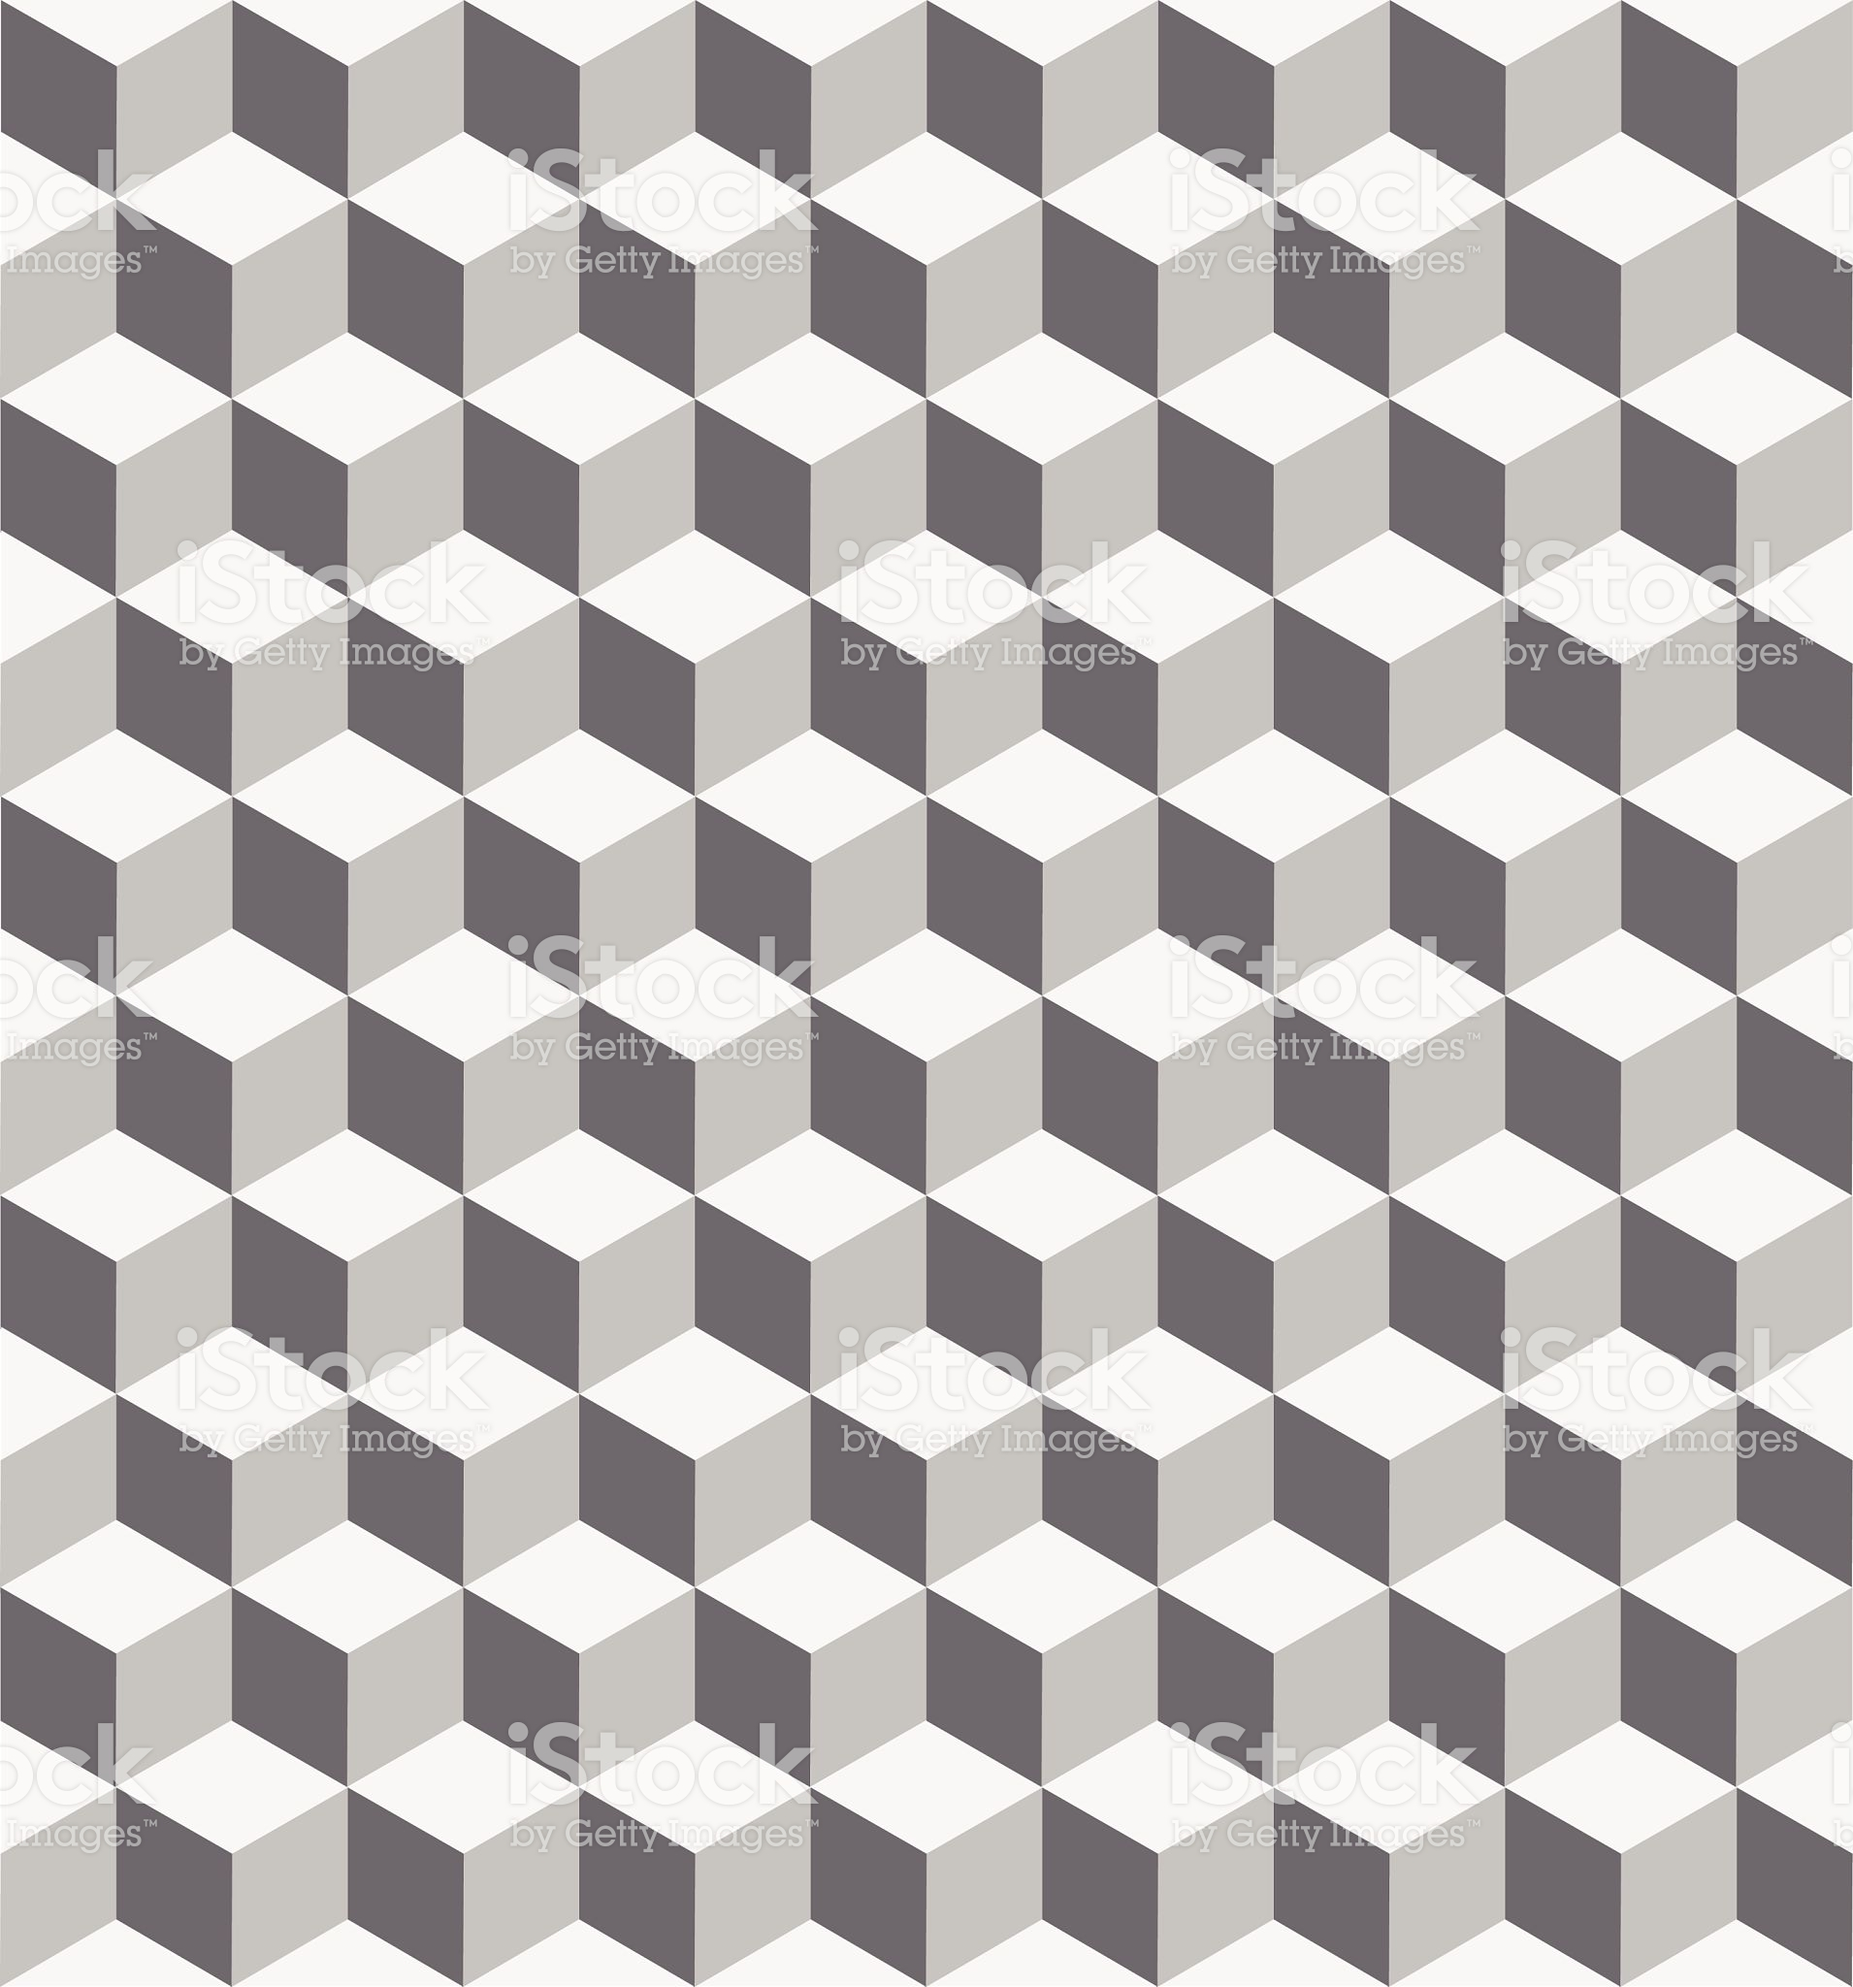
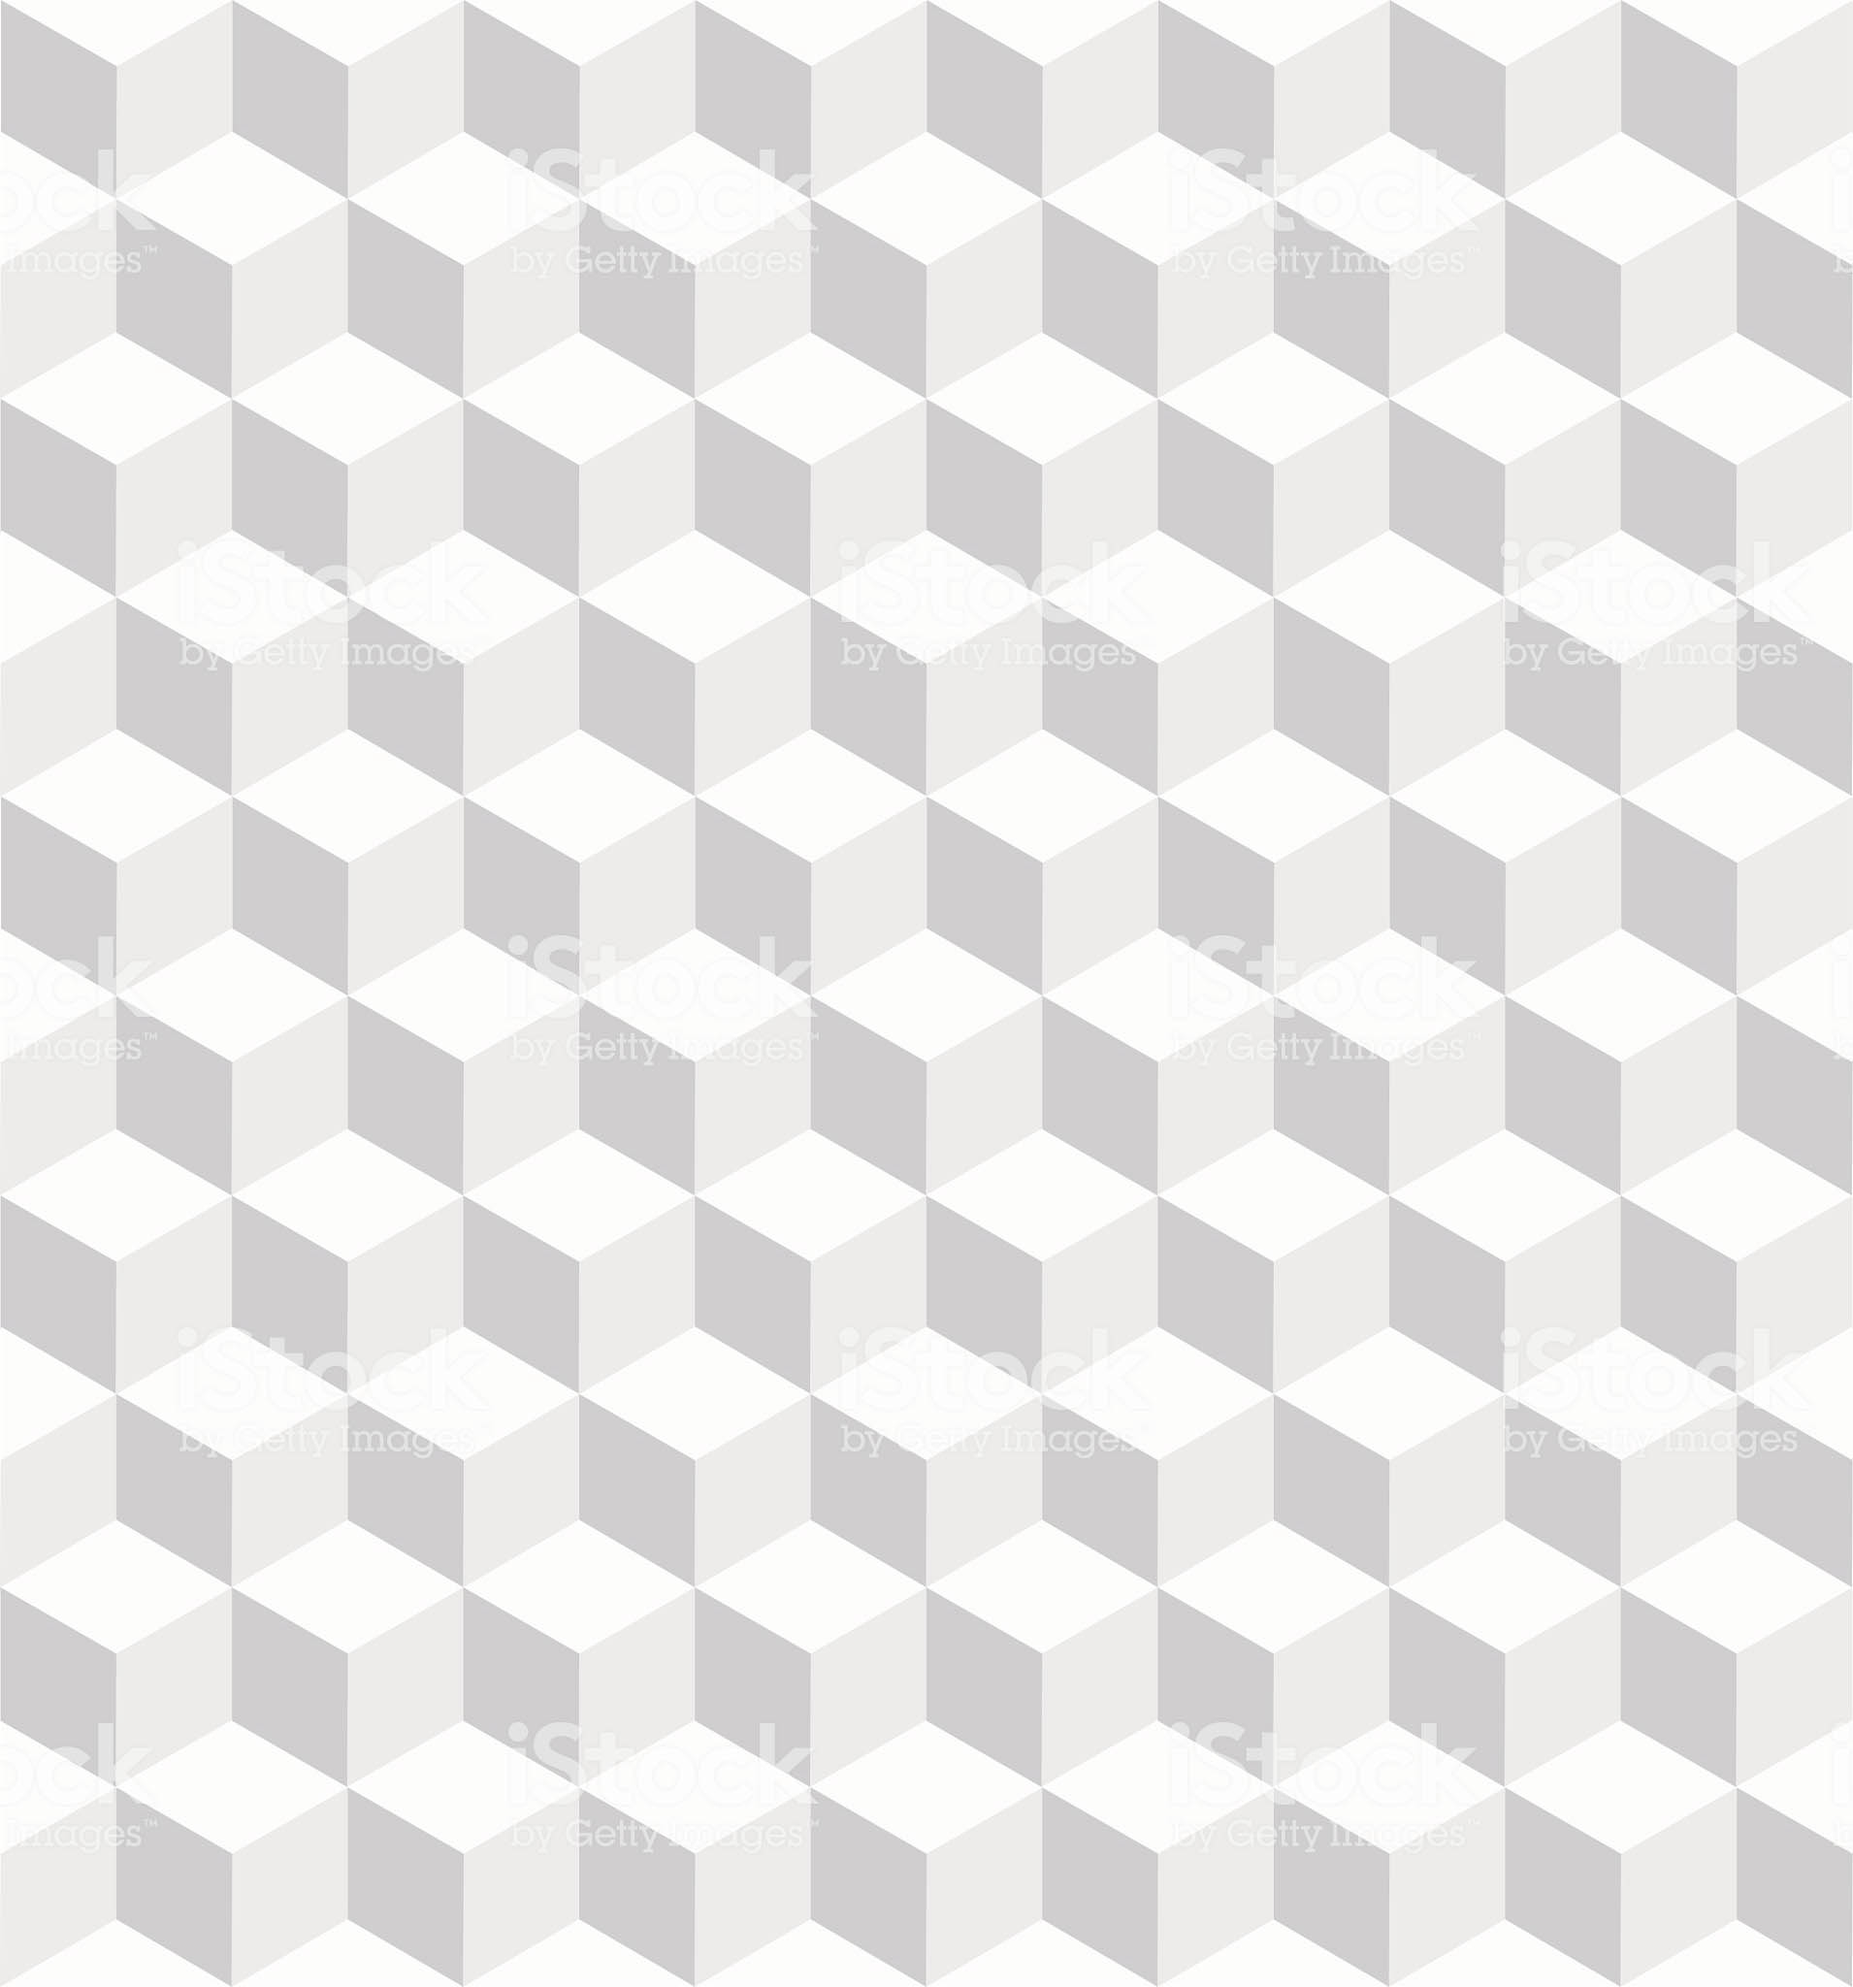
Fade view styling

diff --git a/js/functions.js b/js/functions.js
@@ -28,9 +28,8 @@ getCardContent = (articles, newElem, type) => {
     articleImage.src = `${imagePath}/${articles[j][1].thumbnail}`;
 
     newElem.appendChild(articleImage);
-
     articleImage.addEventListener("click", function() {
-      toggleFullscreen(articleImage, articles[j][1]);
+      toggleFullscreen(newElem, articleImage, articles[j][1]);
     });
   }
 };
@@ -66,9 +65,11 @@ getWrapperLeft = elem => {
   }
 };
 
-toggleFullscreen = (elem, obj) => {
+toggleFullscreen = (parentElem, elem, obj) => {
   const headerMain = document.querySelector(".header__Main");
-  const parentElem = elem.parentNode.parentNode;
+
+
+  console.log(parentElem.parentNode);
 
   if (toggleFullscreenState === false) {
     const fullscreenElem = document.createElement("div");
@@ -107,17 +108,17 @@ toggleFullscreen = (elem, obj) => {
     fullscreenElem.appendChild(articleContent);
     fullscreenElem.appendChild(buttonClose);
 
-    parentElem.appendChild(fullscreenElem);
+    parentElem.parentNode.appendChild(fullscreenElem);
 
     fullscreenElem.addEventListener("click", function() {
-      toggleFullscreen(elem, obj);
+      toggleFullscreen(parentElem, elem, obj);
     });
 
     headerMain.classList.add("header__Main--hide");
 
     toggleFullscreenState = true;
   } else {
-    parentElem.removeChild(document.querySelector(".fullscreen"));
+    parentElem.parentNode.removeChild(document.querySelector(".fullscreen"));
 
     headerMain.classList.remove("header__Main--hide");
 

diff --git a/js/init.js b/js/init.js
@@ -68,8 +68,13 @@ document.addEventListener("DOMContentLoaded", function() {
       if (obj[i].id === "elem2") {
         let scrollBg = document.createElement("div");
         scrollBg.classList.add("fadeIn", "fadeIn__Background");
+
+        const fadeWrapper = document.createElement("div");
+        fadeWrapper.classList.add("fade__Wrapper");
+
         newSection.appendChild(scrollBg);
-        getCardContent(Object.entries(obj[i].content), newSection, "fadeIn");
+        newSection.appendChild(fadeWrapper);
+        getCardContent(Object.entries(obj[i].content), fadeWrapper, "fadeIn");
       }
 
       // generate contact form view
@@ -123,6 +128,13 @@ document.addEventListener("DOMContentLoaded", function() {
       elem1.classList.add("wipe");
       getWrapperLeft("wipe__Wrapper");
     }
+
+    // elem2 - set fade elements
+    elem2.classList.add("fade");
+
+    // elem3 - set contact elements
+    elem3.classList.add("contact");
+
 
     // scroll event listener
     window.addEventListener("scroll", function(e) {

diff --git a/css/fade.css b/css/fade.css
@@ -1,3 +1,12 @@
+.fade__Wrapper {
+    position: relative;
+    display: flex;
+    flex-wrap: wrap;
+    justify-content: space-around;
+    align-items: center;
+    z-index: 20;
+}
+
 .fadeIn {
   position: relative;
   display: block;
@@ -12,7 +21,7 @@
   width: 100%;
   height: 100%;
   z-index: 10;
-  background-image: url(../images/bg10.jpg);
+  background-image: url(../images/bg5.jpg);
   background-position: center;
   background-size: cover;
 }

diff --git a/css/screen.css b/css/screen.css
@@ -98,10 +98,6 @@ svg {
   visibility: hidden;
   position: relative;
   display: flex;
-  flex-wrap: wrap;
-  justify-content: space-around;
-  align-items: center;
-  z-index: 20;
 }
 
 #elem3 {
